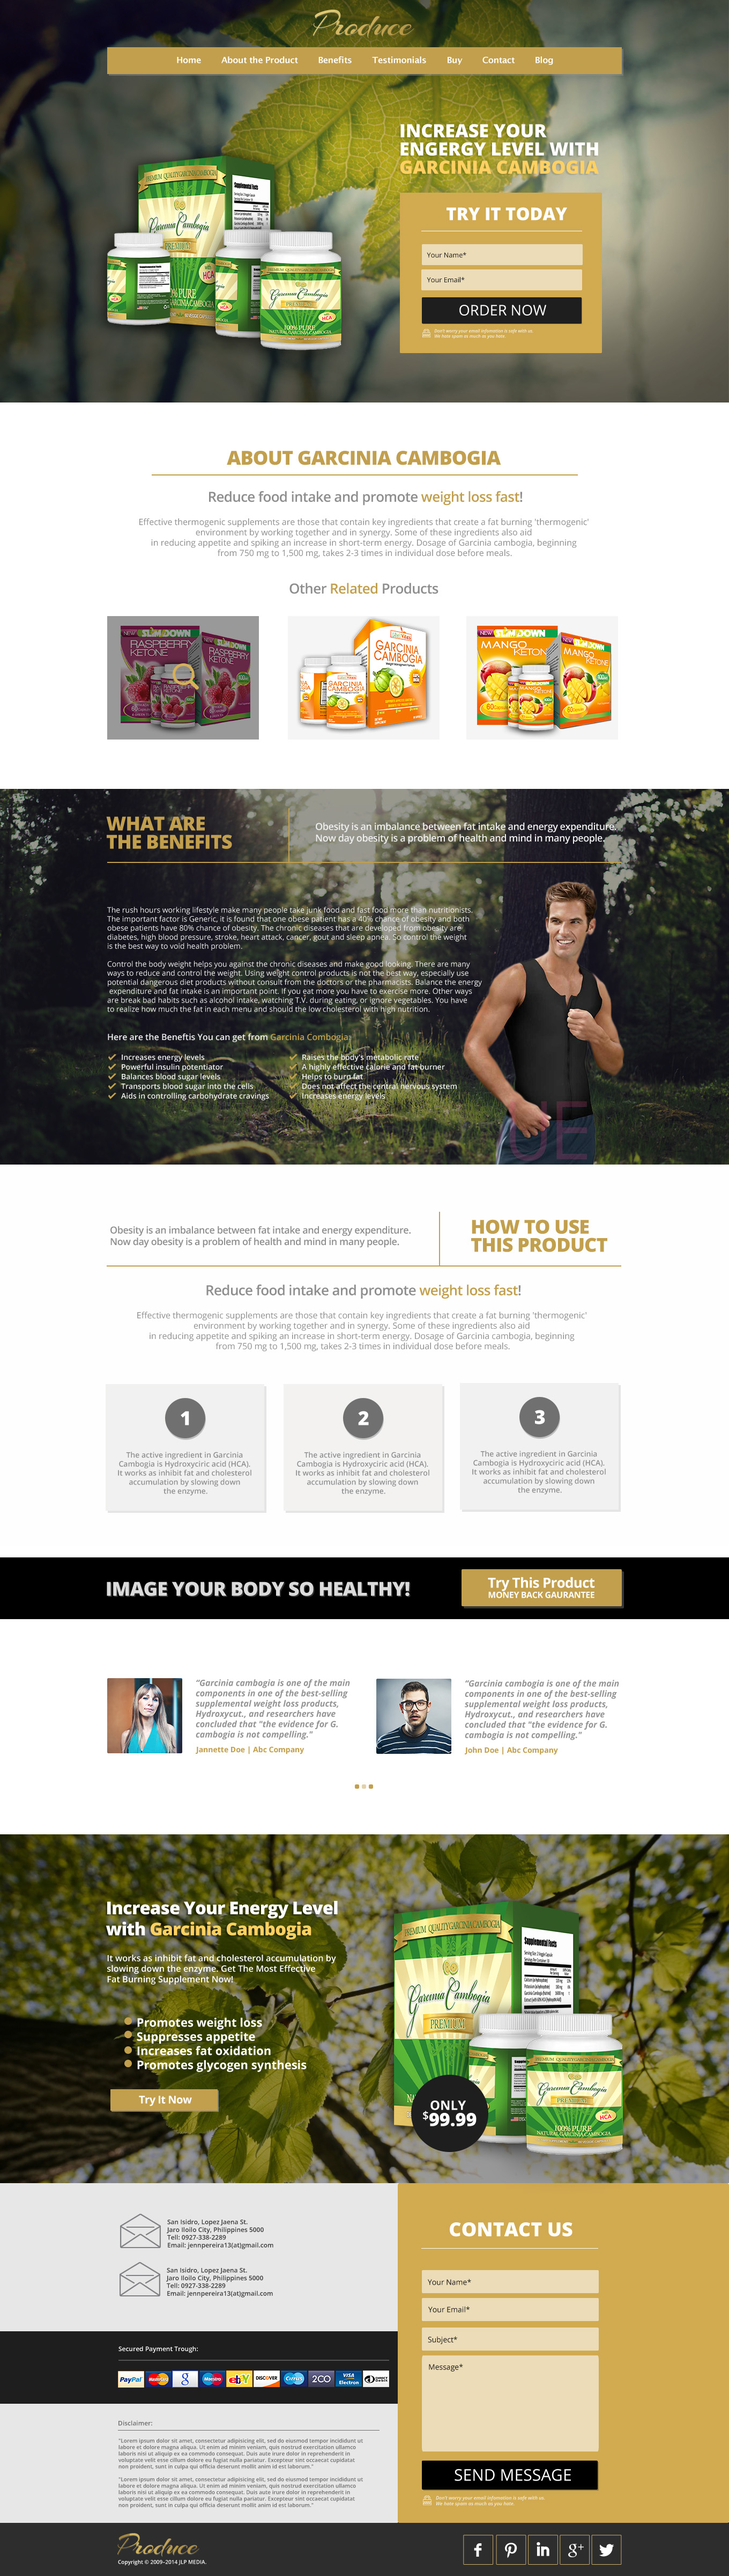
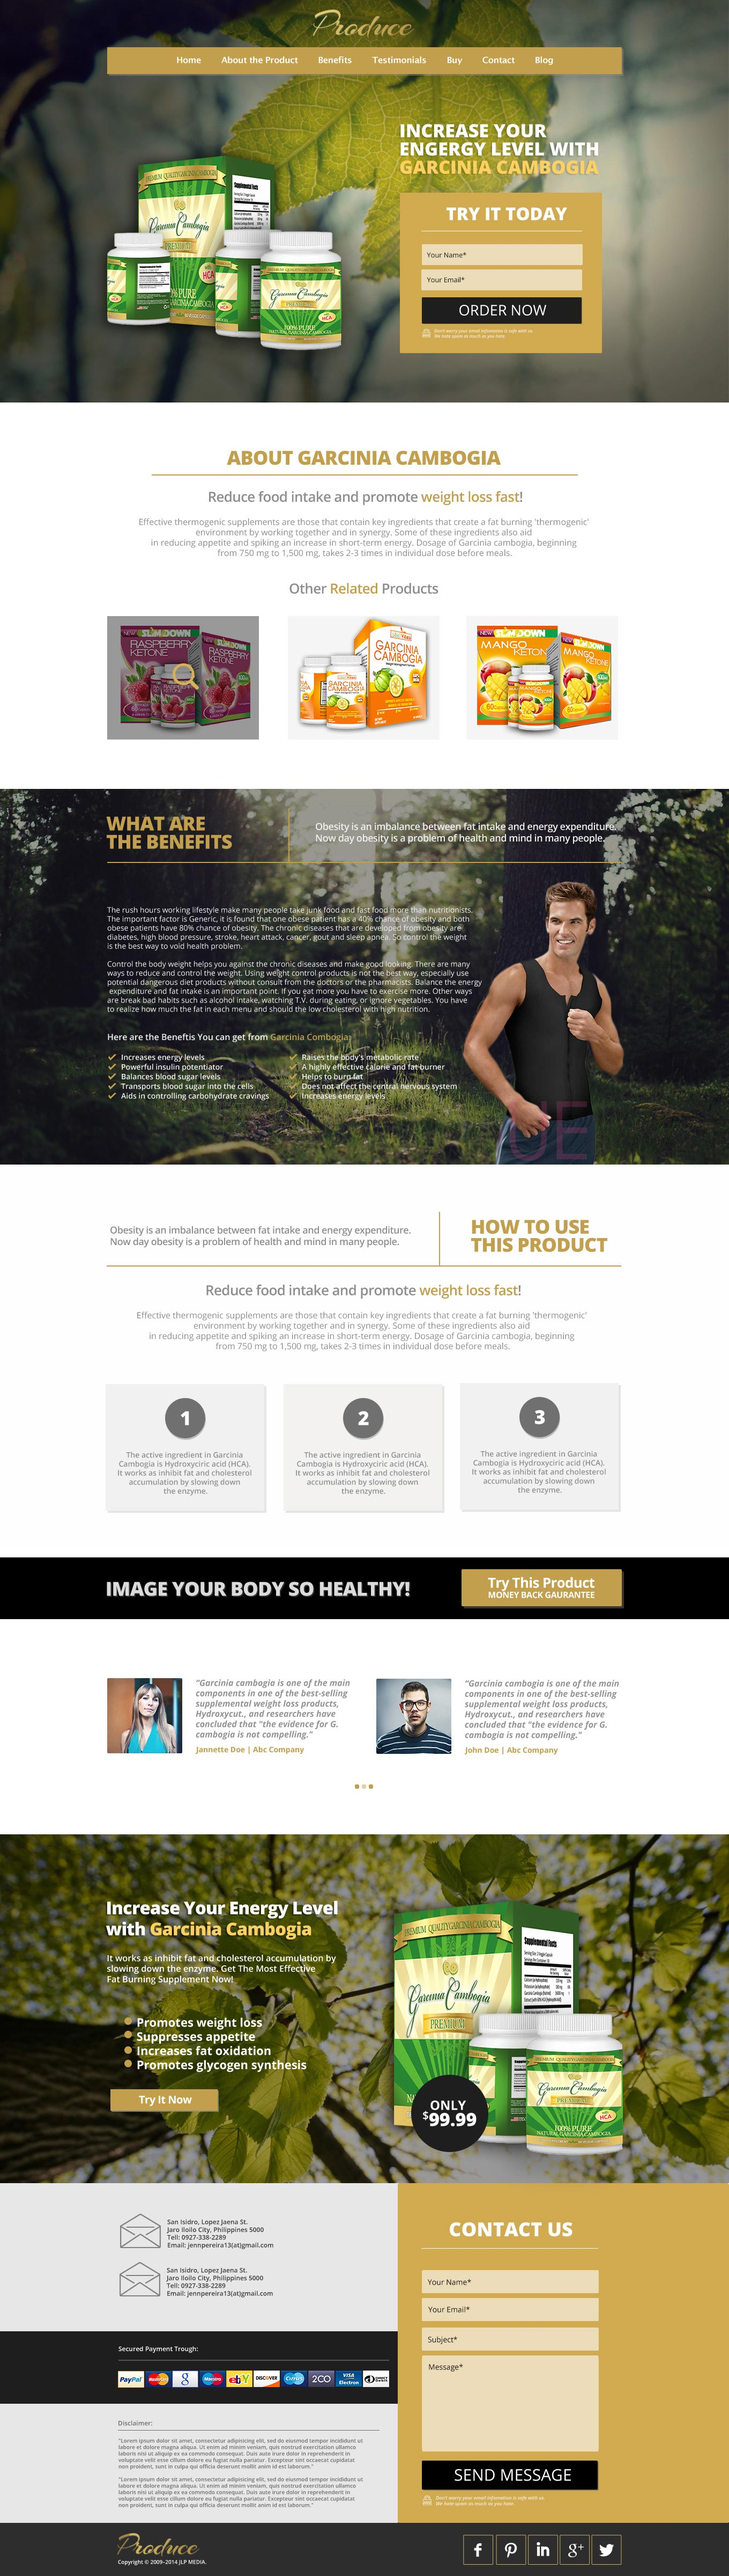
Style for header

diff --git a/css/style.css b/css/style.css
@@ -1,0 +1,231 @@
+*, *::before, *::after {
+  outline: 1px dashed lightgrey;
+}
+
+html,
+body {
+  box-sizing: border-box;
+  font-style: normal;
+  font-weight: 400;
+  font-size: 16px;
+  line-height: 1.2;
+  font-family: "Open Sans", "Tahoma", sans-serif;
+  color: #8e8e8e;
+  background-color: #ffffff;
+}
+
+/*------------------------------------*\
+    #COMMON-ELEMENTS
+\*------------------------------------*/
+
+*,
+*::before,
+*::after {
+  box-sizing: inherit;
+}
+
+*:focus {
+  outline-color: #6bdd6b;
+}
+
+img {
+  max-width: 100%;
+}
+
+a {
+  color: #d1aa50;
+  text-decoration: none;
+}
+
+button {
+  border: none;
+  box-shadow: none;
+}
+
+input {
+  width: 100%;
+  min-height: 40px;
+  margin-bottom: 8px;
+  padding: 10px;
+  font-size: 13px;
+  color: #1e1e1e;
+  background-color: rgba(255, 255, 255, 0.6);
+  border: none;
+  border-radius: 2px;
+}
+
+textarea {
+  width: 100%;
+  border-radius: 2px;
+}
+
+
+/*------------------------------------*\
+    #COMMON-CLASSES
+\*------------------------------------*/
+
+.container {
+  width: 1000px;
+  margin: 0 auto;
+  padding: 0 20px;
+}
+
+.visually-hidden {
+  position: absolute;
+  width: 1px;
+  height: 1px;
+  margin: -1px;
+  padding: 0;
+  border: 0;
+  clip: rect(0, 0, 0, 0);
+  overflow: hidden;
+}
+
+.button {
+  display: inline-block;
+  width: 100%;
+  padding: 11px;
+  font-weight: 300;
+  font-size: 27px;
+  line-height: 27px;
+  font-family: "Open Sans", "Tahoma", sans-serif;
+  letter-spacing: 0.75px;
+  text-align: center;
+  vertical-align: middle;
+  text-transform: uppercase;
+  color: #ffffff;
+  background-color: #1e1e1e;
+  border-radius: 2px;
+}
+
+.button:focus,
+.button:hover {
+  background-color: #353535;
+}
+
+.button:active {
+  color: rgba(255, 255, 255, 0.5);
+}
+
+/*------------------------------------*\
+    #HEADER
+\*------------------------------------*/
+
+.header {
+  padding: 18px 0 25px;
+  color: #ffffff;
+  background-color: #878c4c;
+  background-image: url("../img/background-header.jpg");
+  background-position: center top;
+  background-size: cover;
+  background-repeat: no-repeat;
+}
+
+.header-logo {
+  display: block;
+  margin: 0 auto;
+}
+
+.navigation {
+  display: flex;
+  justify-content: space-between;
+  flex-wrap: wrap;
+  min-height: 50px;
+  margin: 16px 0 90px;
+  padding: 0 110px;
+  font-weight: 700;
+  color: #ffffff;
+  background-color: #c29f4d;
+  list-style: none;
+}
+
+.navigation li {
+  flex-grow: 1;
+}
+
+.navigation a {
+  display: block;
+  padding: 15px;
+  vertical-align: middle;
+  text-align: center;
+  color: #ffffff;
+  letter-spacing: -0.25px;
+}
+
+.navigation a:focus,
+.navigation a:hover {
+  background-color: #ffd062;
+}
+
+.navigation a:active {
+  color: rgba(255, 255, 255, 0.5);
+}
+
+.promo {
+  display: flex;
+  align-items: flex-start;
+}
+
+.promo-photo {
+  margin-top: 40px;
+  margin-right: 45px;
+  margin-left: -35px;
+}
+
+.promo h2 {
+  margin: 0;
+  margin-bottom: 30px;
+  font-weight: 800;
+  font-size: 34px;
+  line-height: 34px;
+  letter-spacing: -0.25px;
+  text-transform: uppercase;
+  text-shadow: 0px 4px 1px rgba(0, 0, 0, 0.25);
+}
+
+.promo span{
+  color: #ffd062;
+}
+
+.promo-order {
+  width: 376px;
+  padding: 19px 38px 25px;
+  background-color: #d1aa50;
+}
+
+.promo-order b {
+  display: block;
+  width: 100%;
+  margin-bottom: 23px;
+  padding-bottom: 14px;
+  font-weight: 800;
+  font-size: 32.7px;
+  text-align: center;
+  text-transform: uppercase;
+  border-bottom: 1px solid #ffffff;
+}
+
+.promo .button {
+  margin: 3px 0 10px;
+}
+
+.promo-no-spam {
+  position: relative;
+  margin: 0;
+  padding-left: 25px;
+  font-style: italic;
+  font-size: 8.5px;
+}
+
+.promo-no-spam::before {
+  content: url("../img/no-spam.png");
+  position: absolute;
+  top: 0;
+  left: 3px;
+  width: 15px;
+  height: 16px;
+}
+
+/**, *::before, *::after {
+  outline: none;
+}*/

diff --git a/index.html b/index.html
@@ -11,40 +11,39 @@
 
   <header class="header">
 
-    <img class="logo" src="img/logo.png" width="189" height="53" alt="Logo «Produce Gold»">
+    <img class="header-logo" src="img/logo.png" width="189" height="53" alt="Logo «Produce Gold»">
     <h1 class="visually-hidden">Site «Produce Gold»</h1>
 
-    <nav class="navigation">
-      <ul>
+    <nav class="container">
+      <ul class="navigation">
         <li>
           <a href="#">Home</a>
         </li>
         <li>
-          <a class="#">About the Product</a>
+          <a href="#">About the Product</a>
         </li>
         <li>
-          <a class="#">Benefits</a>
+          <a href="#">Benefits</a>
         </li>
         <li>
-          <a class="#">Testimonials</a>
+          <a href="#">Testimonials</a>
         </li>
         <li>
-          <a class="#">Buy</a>
+          <a href="#">Buy</a>
         </li>
         <li>
-          <a class="#">Contact</a>
+          <a href="#">Contact</a>
         </li>
         <li>
-          <a class="#">Blog</a>
+          <a href="#">Blog</a>
         </li>
       </ul>
     </nav>
 
-    <section class="promo">
+    <section class="promo container">
       <img class="promo-photo" src="img/photo-1.png" width="537" height="456" alt="Garcinia Cambogia">
       <div class="wrapper">
-        <p>Increase your engergy level with</p>
-        <h2>Garcinia Cambogia</h2>
+        <h2>Increase your engergy level with <span>Garcinia Cambogia</span></h2>
         <div class="promo-order">
           <b>Try it today</b>
           <form action="test.action.com" method="post">
@@ -302,7 +301,7 @@
       <img class="logo" src="img/logo.png" width="153" height="44" alt="Logo «Produce Gold»">
       <p>
         Copyright &copy; 2009–2014 Design - JLP MEDIA.<br>
-        Copyright &copy; 2017 HTML & CSS - Alina Vanieva. Contact us - <a href="mailto:a.v.2212@mail.ru" target="_blank">a.v.2212@mail.ru</a>
+        Copyright &copy; 2017 HTML & CSS & Styleguide - Alina Vanieva. Contact us - <a href="mailto:a.v.2212@mail.ru" target="_blank">a.v.2212@mail.ru</a>
       </p>
     </div>
 
